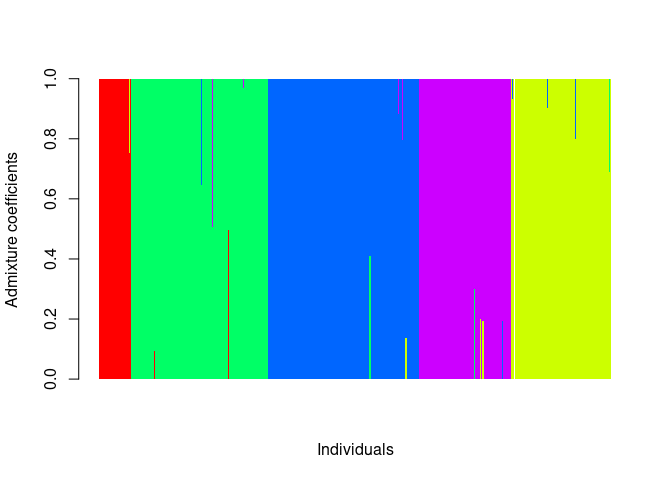
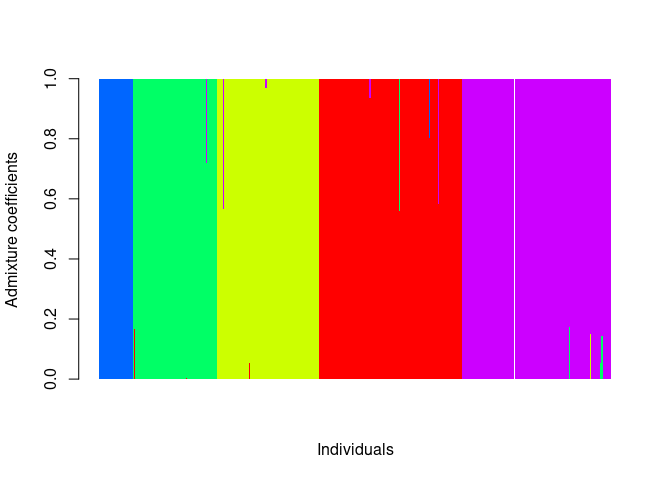
Added figures for genetic and allelic diversity contributions

diff --git a/FORGENIUS-pipeline.md b/FORGENIUS-pipeline.md
@@ -1,7 +1,7 @@
 FORGENIUS-pipeline, test 20 SNPs
 ================
 SCGM & MW
-2024-10-16
+2024-10-18
 
 Load packages
 
@@ -19,6 +19,7 @@ library(shapefiles)
 library(miscTools)
 library(dartR)
 library(poppr)
+library(ggplot2)
 
 # maybe needed, to check:
 #library(knitr)
@@ -217,29 +218,29 @@ barchart (data_snmf, best_K, best_run, sort.by.Q = T, col = rainbow(best_K), bor
 ![](FORGENIUS-pipeline_files/figure-gfm/Estimate%20admixture%20coefficients-2.png)<!-- -->
 
     ## $order
-    ##   [1]  14  16  79  83 143 206 208 211 212 269 270 273 274 275 279 281 288 305
-    ##  [19] 307 318 320 338 350 357 370 381   3   9  13  20  21  24  25  28  29  35
-    ##  [37]  40  43  44  45  47  51  52  53  61  67  73  75  78  81  85  86  87  92
-    ##  [55]  94  99 101 103 106 109 112 115 116 117 120 121 122 127 128 129 132 134
-    ##  [73] 135 137 140 160 162 163 166 168 173 182 183 187 192 193 197 199 204 205
-    ##  [91] 207 209 218 219 220 226 229 230 233 239 244 247 262 278 280 283 287 291
-    ## [109] 296 298 299 306 331 333 337 347 353 356 358 359 361 363 366 368 371 372
-    ## [127] 373 375 379 382 383 389 401 404 407 412   1   2   4   5   6   7   8  10
-    ## [145]  12  15  17  18  22  26  31  36  39  41  42  46  48  49  55  57  58  66
-    ## [163]  71  77  89  90  91  93  95  96  97  98 100 102 104 105 107 108 110 111
-    ## [181] 113 118 123 124 125 126 131 133 141 144 145 146 147 148 149 150 151 152
-    ## [199] 153 155 156 157 158 159 161 167 169 172 174 175 176 177 179 184 185 186
-    ## [217] 201 203 210 213 215 216 217 221 222 223 225 227 228 231 232 235 236 237
-    ## [235] 245 253 267 268 272 284 290 292 295 297 303 312 319 324 335 339 362 388
-    ## [253] 390 393 395 398 402 409  11  19  23  27  33  37  38  50  56  59  64  65
-    ## [271]  68  69  70  72  74  76  80  82  84  88 139 170 171 178 181 190 191 194
-    ## [289] 200 224 234 238 242 243 246 248 250 256 259 261 271 276 277 282 285 289
-    ## [307] 293 294 300 304 308 309 314 317 321 328 334 340 343 345 346 349 352 355
-    ## [325] 365 367 378 384 386 392 399 408  30  32  34  54  60  62  63 114 119 130
-    ## [343] 136 138 142 154 164 165 180 188 189 195 196 198 202 214 240 241 249 251
-    ## [361] 252 254 255 257 258 260 263 264 265 266 286 301 302 310 311 313 315 316
-    ## [379] 322 323 325 326 327 329 330 332 336 341 342 344 348 351 354 360 364 369
-    ## [397] 374 376 377 380 385 387 391 394 396 397 400 403 405 406 410 411 413
+    ##   [1]  14  16  79  83 143 206 208 211 212 269 273 274 275 279 281 288 305 307
+    ##  [19] 318 320 338 350 355 357 370 374 381  11  19  23  27  37  38  56  59  65
+    ##  [37]  69  70  72  74  76  80  82  84  88 125 139 170 171 181 190 191 194 200
+    ##  [55] 224 242 243 246 248 250 256 259 270 271 276 282 285 289 290 292 294 297
+    ##  [73] 300 303 308 309 317 328 334 339 340 343 345 346 349 352 366 367 378 384
+    ##  [91] 386 392 398 399 408  30  32  34  54  60  62  63 114 119 130 136 138 142
+    ## [109] 154 164 165 180 188 189 195 196 198 202 214 240 241 247 249 251 252 255
+    ## [127] 257 258 260 263 264 265 266 286 293 301 302 310 311 313 315 316 322 323
+    ## [145] 324 325 326 327 329 330 332 336 341 342 344 348 351 354 360 364 369 376
+    ## [163] 377 380 385 387 391 394 396 397 400 403 405 406 410 411 413   3   9  12
+    ## [181]  13  20  21  24  25  28  29  33  35  40  43  44  45  47  50  51  52  53
+    ## [199]  61  64  67  73  75  78  81  85  86  87  89  92  94  99 101 103 106 109
+    ## [217] 112 115 116 117 120 121 122 126 127 128 129 132 134 135 137 140 155 162
+    ## [235] 163 166 167 168 173 178 179 183 185 187 192 193 197 199 204 205 207 209
+    ## [253] 218 219 220 229 230 233 234 239 244 254 262 272 277 278 280 283 287 291
+    ## [271] 296 299 306 321 331 333 337 347 356 358 359 363 368 371 373 379 382 383
+    ## [289] 389 401 404 407 412   1   2   4   5   6   7   8  10  15  17  18  22  26
+    ## [307]  31  36  39  41  42  46  48  49  55  57  58  66  68  71  77  90  91  93
+    ## [325]  95  96  97  98 100 102 104 105 107 108 110 111 113 118 123 124 131 133
+    ## [343] 141 144 145 146 147 148 149 150 151 152 153 156 157 158 159 160 161 169
+    ## [361] 172 174 175 176 177 182 184 186 201 203 210 213 215 216 217 221 222 223
+    ## [379] 225 226 227 228 231 232 235 236 237 238 245 253 261 267 268 284 295 298
+    ## [397] 304 312 314 319 335 353 361 362 365 372 375 388 390 393 395 402 409
 
 ``` r
 # estimate ancestry coefficients by pop
@@ -294,7 +295,8 @@ Ho <- Ho(data_hierfstat)
 Fis <- 1-(Ho/Hs)
 ```
 
-Compute population allelic contributions with metapop2
+Compute population genetic and allelic diversity contributions with
+metapop2
 
 ``` r
 # Genetic and allelic diversity partitions with metapop2
@@ -304,13 +306,13 @@ system2("./metapop/metapop", arg = "metapop/data_genepop metapop/config")
 file.copy("res_run_FULL.md", "metapop/results")
 ```
 
-    ## [1] TRUE
+    ## [1] FALSE
 
 ``` r
 file.copy("res_run_p.csv", "metapop/results")
 ```
 
-    ## [1] TRUE
+    ## [1] FALSE
 
 ``` r
 file.remove("res_run_FULL.md")
@@ -333,7 +335,7 @@ lines <- readLines(file_path)
 # Identify the start of the table
 start_line <- grep("Percentage of loss \\(\\+\\) or gain \\(-\\) of gene diversity after removal of each subpopulation", lines) + 4
 
-# Extract the lines containing the table data (next 3 lines)
+# Extract the lines containing the table data
 table_lines <- lines[start_line:(start_line + (nb_pop-1))]
 
 # Clean up the lines: remove leading/trailing spaces and split by '|' character
@@ -351,9 +353,7 @@ contrib_div <- as.data.frame(do.call(rbind, table_data), stringsAsFactors = FALS
 names(contrib_div) <- c("ID1", "cHs", "cDg", "cHt")
 
 # Add pop levels
-contrib_div <- contrib_div %>%
-        mutate(GCU=pop_names,
-              .after=ID1)
+contrib_div <- contrib_div %>% mutate(GCU=pop_names, .after=ID1)
 
 # Convert to numeric
 contrib_div$cHs <- as.numeric(contrib_div$cHs)
@@ -382,9 +382,7 @@ contrib_a <- as.data.frame(do.call(rbind, table_data), stringsAsFactors = FALSE)
 names(contrib_a) <- c("ID2", "cAs", "cDa", "cAt")
 
 # Add pop levels
-contrib_a <- contrib_a %>%
-        mutate(GCU=pop_names,
-              .after=ID2)
+contrib_a <- contrib_a %>% mutate(GCU=pop_names, .after=ID2)
 
 # Convert to numeric
 contrib_a$cAs <- as.numeric(contrib_a$cAs)
@@ -405,6 +403,35 @@ str(contrib)
     ##  $ cAs: num  0.854 0.927 0.543 -0.33 0.26 ...
     ##  $ cDa: num  -0.261 -0.186 -0.239 -0.301 0.135 ...
     ##  $ cAt: num  0.593 0.741 0.304 -0.632 0.395 ...
+
+``` r
+# Create contribution figures
+# Genetic diversity
+contrib_temp1 <- subset(contrib, select = c(GCU, cHs))
+colnames(contrib_temp1) <- c("GCU", "values")
+contrib_temp1 <- contrib_temp1 %>% mutate(Partition="Diversity", .after=values)
+contrib_temp2 <- subset(contrib, select = c(GCU, cDg))
+colnames(contrib_temp2) <- c("GCU", "values")
+contrib_temp2 <- contrib_temp2 %>% mutate(Partition="Differentiation", .after=values)
+contrib_fig_div <- rbind(contrib_temp1,contrib_temp2)
+ggplot(contrib_fig_div, aes(x = GCU, y = values))+ geom_col(aes(fill = Partition), width = 0.7) + scale_y_continuous() + theme(axis.text.x = element_text(angle = 90, vjust = 0.5, hjust = 1)) + xlab("GCUs") + ylab("Contribution % (genetic diversity)") + scale_alpha_manual(values = 1) + labs(alpha="")
+```
+
+![](FORGENIUS-pipeline_files/figure-gfm/genetic%20and%20allelic%20diversity%20partitions-1.png)<!-- -->
+
+``` r
+# Allelic diversity
+contrib_temp3 <- subset(contrib, select = c(GCU, cAs))
+colnames(contrib_temp3) <- c("GCU", "values")
+contrib_temp3 <- contrib_temp3 %>% mutate(Partition="Diversity", .after=values)
+contrib_temp4 <- subset(contrib, select = c(GCU, cDa))
+colnames(contrib_temp4) <- c("GCU", "values")
+contrib_temp4 <- contrib_temp4 %>% mutate(Partition="Differentiation", .after=values)
+contrib_fig_allelic <- rbind(contrib_temp3,contrib_temp4)
+ggplot(contrib_fig_allelic, aes(x = GCU, y = values))+ geom_col(aes(fill = Partition), width = 0.7) + scale_y_continuous() + theme(axis.text.x = element_text(angle = 90, vjust = 0.5, hjust = 1)) + xlab("GCUs") + ylab("Contribution % (allelic diversity)") + scale_alpha_manual(values = 1) + labs(alpha="")
+```
+
+![](FORGENIUS-pipeline_files/figure-gfm/genetic%20and%20allelic%20diversity%20partitions-2.png)<!-- -->
 
 Compute genetic distinctness
 
